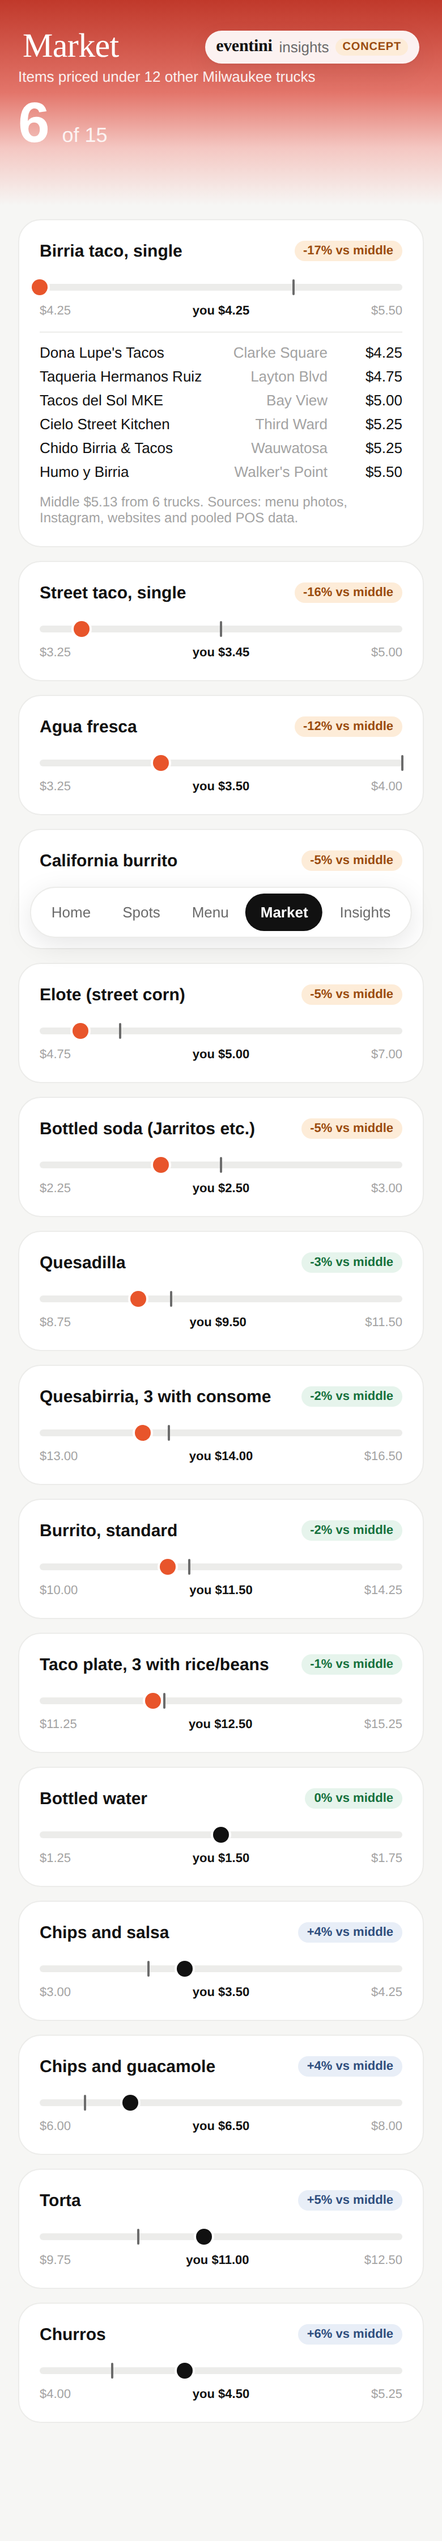
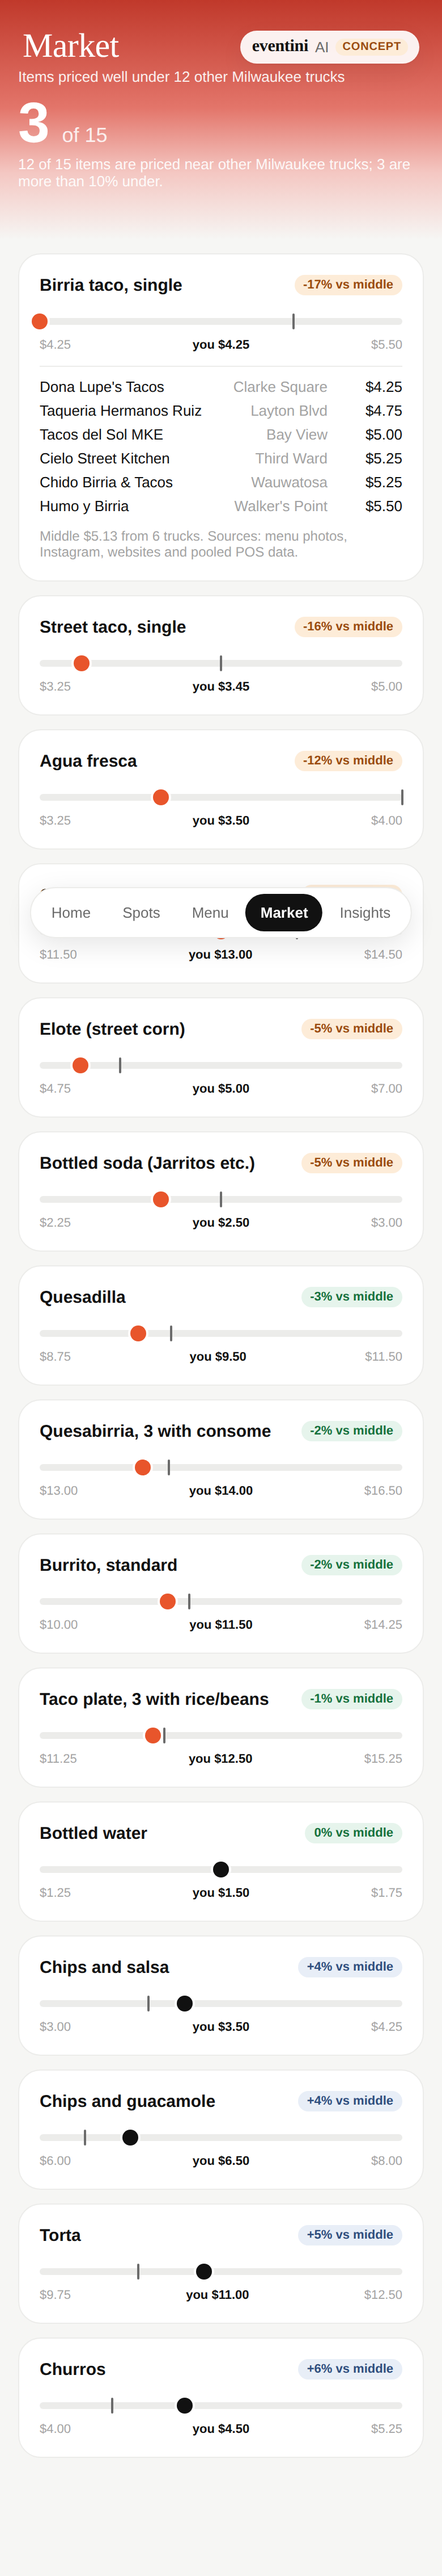
Rename the concept to Eventini AI
Claude-Session: https://claude.ai/code/session_011kULvXi1EhLGoQfkcWDNEp

diff --git a/food-truck-app/src/components/Brand.tsx b/food-truck-app/src/components/Brand.tsx
@@ -10,14 +10,14 @@ export function Brand() {
     <>
       <button className="brand-btn" onClick={() => setAbout(true)} aria-label="About this concept">
         {HAS_LOGO ? <img src={`${import.meta.env.BASE_URL}eventini-logo.svg`} alt="Eventini" height="20" /> : <span className="wordmark">eventini</span>}
-        <span className="brand-sep">insights</span>
+        <span className="brand-sep">AI</span>
         <span className="concept-tag">Concept</span>
       </button>
       {about && (
         <div className="sheet-back" onClick={() => setAbout(false)}>
           <div className="sheet" onClick={(e) => e.stopPropagation()}>
             <h2>About this concept</h2>
-            <p>A concept for an owner-facing insights app on top of the Eventini POS, built by Ben Harcourt-Harrison. It is not an Eventini product and Eventini has not endorsed it.</p>
+            <p>Eventini AI is a concept for an owner-facing insights app on top of the Eventini POS, built by Ben Harcourt-Harrison. It is not an Eventini product and Eventini has not endorsed it.</p>
             <p>Everything shown is sample data for a made-up Milwaukee taqueria. The Eventini name and wordmark belong to Eventini.</p>
             <button className="btn" onClick={() => setAbout(false)}>Close</button>
           </div>

diff --git a/food-truck-app/src/screens/Home.tsx b/food-truck-app/src/screens/Home.tsx
@@ -81,7 +81,7 @@ export default function Home({ range, setRange }: { range: RangeKey; setRange: (
         <Card className="line">
           <span className="fig warn">{tips.length + stock.length}</span>
           <span className="txt">
-            <b>Eventini insights this week</b>
+            <b>Eventini AI insights this week</b>
             <span>{stock[0] ? `${stock[0].item.name} has stopped selling. ` : ''}{tips.find((t) => t.id === 'fees')?.title ?? tips[0]?.title}</span>
           </span>
           <span className="chev">›</span>

diff --git a/food-truck-app/index.html b/food-truck-app/index.html
@@ -7,7 +7,7 @@
     <meta name="theme-color" content="#f6f6f4" />
     <link rel="preconnect" href="https://fonts.googleapis.com" />
     <link rel="stylesheet" href="https://fonts.googleapis.com/css2?family=Inter:wght@400;500;600;700&family=Fraunces:opsz,wght@9..144,500;9..144,600&display=swap" />
-    <title>Eventini Insights (concept)</title>
+    <title>Eventini AI (concept)</title>
   </head>
   <body>
     <div id="root"></div>

diff --git a/food-truck-app/src/screens/Insights.tsx b/food-truck-app/src/screens/Insights.tsx
@@ -20,7 +20,7 @@ export default function Insights() {
         </header>
         <div className="label">Week of {shortDate(TODAY)}</div>
         <div className="big">{tips.length + stock.length}</div>
-        <div className="label">worked out from your own numbers</div>
+        <div className="label">Eventini AI insights from your own numbers</div>
       </section>
 
       {stock.length > 0 && (
